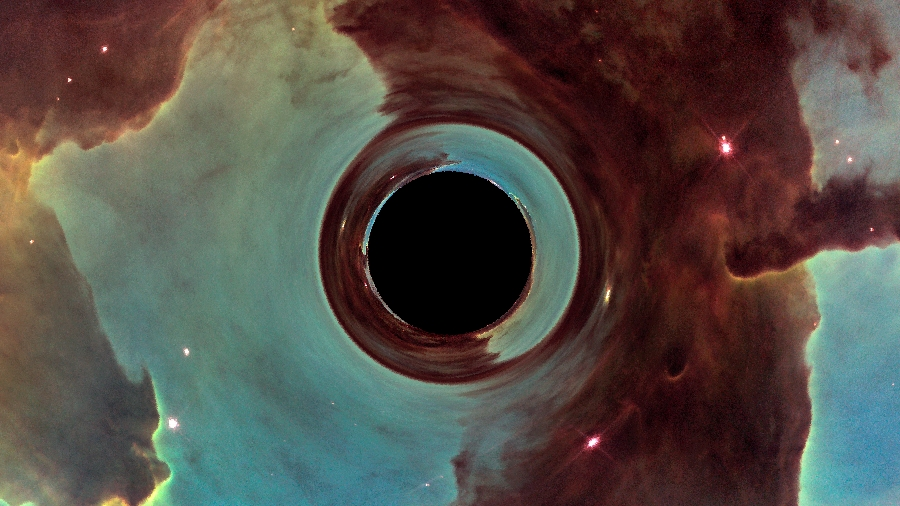
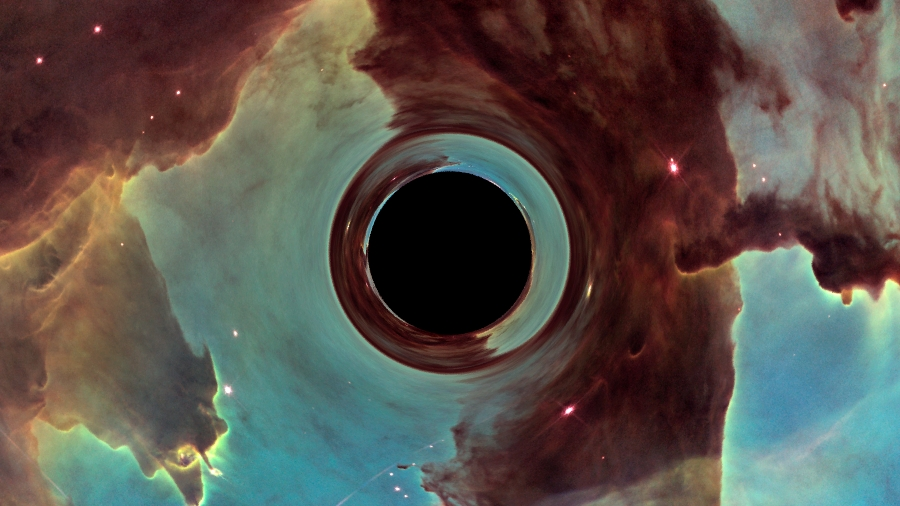
update refs and images

diff --git a/manuscript/BHraytracer.tex b/manuscript/BHraytracer.tex
@@ -139,12 +139,13 @@ We present two images -- Figs.~\ref{fig:eagle} and \ref{fig:starry}, it is easy 
 \end{figure}
 
 
+% Rendered with 
+%~/cscd71/final/release/main -i ~/STScI-H-CANDELS_UDF-16300x9000.jpg -B -1000 -s 10 -W 2700
 \begin{figure}[h]
   \centering
   \includegraphics[width=0.8\linewidth]{figs/starry_render}
   \caption{A second example of an application from our ray tracer implementation,
-	in this case from a deep star map from \cite{deepstarmap-nasa_svs}.
-	The original image was edited just to raise its exposure.}
+	in this case from the CANDELS project\cite{candels-nasa_svs}.}
   \label{fig:starry}
 \end{figure}
 
